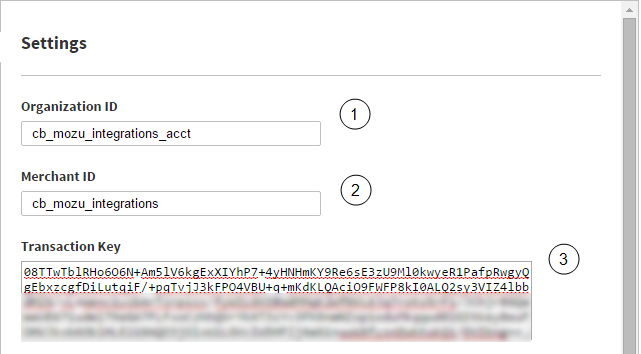
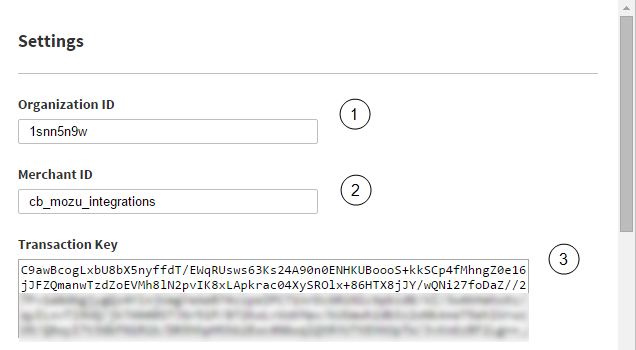
Updating Organization ID

diff --git a/DecisionManager/Mozu-DecisionManager-App.htm b/DecisionManager/Mozu-DecisionManager-App.htm
@@ -232,7 +232,7 @@
 							<table class="table table-hover" style="max-width:75%; font-size:90%;">
 							<tr>
 								<td><strong>1</strong></td>
-								<td><strong>Organization ID</strong>&#8212;Your Decision Manager <strong>Account ID</strong>.</td>
+								<td><strong>Organization ID</strong>&#8212;Specifies whether to connect to the CyberSource Test Business Center or the Live Business Center. The Test Business Center simulates transactions, and is ideal for testing your app configuration. The Live Business Center processes real transactions. For Test, use: <code>1snn5n9w</code> For Live, use: <code>k8vif92e</code></td>
 							</tr>
 							<tr>
 								<td><strong>2</strong></td>
@@ -255,15 +255,19 @@
 							</tr>
 							<tr>
 								<td><strong>5</strong></td>
-								<td><strong>Cancel Order When Rejected in DM</strong>&#8212;(Optional) If enabled, specifies to automatically cancel orders in Mozu that are rejected by Decision Manager. If not enabled, orders rejected by Decision Manager are set to Pending Review in Mozu.<span class="panel-note"><strong>Note:</strong> Cancelled orders in Mozu cannot be reverted to a non-cancelled state.</span></td>
+								<td><strong>Cancel Order When Rejected in DM</strong>&#8212;(Optional) Specifies to automatically cancel orders in Mozu that are rejected by Decision Manager. If not enabled, orders rejected by Decision Manager are set to Pending Review in Mozu.<span class="panel-note"><strong>Note:</strong> Cancelled orders in Mozu cannot be reverted to a non-cancelled state.</span></td>
 							</tr>
 							<tr>
-								<td><span id="config6"><strong>6</strong></span></td>
+								<td><strong>6</strong></td>
+								<td><strong>Export Order Item Price as 0.00</strong>&#8212;(Optional) Specifies to export orders to Decision Manager with the price for individual line items set to 0.00. The <strong>Order Total</strong> still shows the full price of the order.</td>
+							</tr>
+							<tr>
+								<td><span id="config6"><strong>7</strong></span></td>
 								<td><strong>Select Payment Type</strong>&#8212;Specifies the payment types to check for fraud in Decision Manager. Mozu sends ONLY the payment types you select to Decision Manager. If you select multiple payment types, Mozu sends only the <em>largest</em> selected payment type applied to a given order to Decision Manager for screening.
 									<span class="panel-note"><strong>Note:</strong> The <strong>Paypal Express</strong> payment type is only supported for the legacy version of Mozu PayPal, implemented through Mozu Core 8 and earlier. If you are implementing PayPal support through the PayPal Express Certified Mozu Application, Decision Manager does not check PayPal payments for potential fraud. CyberSource's current tooling requires a billing address with every order. PayPal Express obscures billing information for security reasons, so Mozu cannot provide it to CyberSource.</span></td>
 							</tr>
 							<tr>
-								<td><strong>7</strong></td>
+								<td><strong>8</strong></td>
 								<td><strong>Environment</strong>&#8212;Specifies the Decision Manager environment to use for fraud checking. If you select <strong>Test</strong>, the application sends order information to Decision Manager's test site, where you can evaluate fraud detection rules in a sandbox setting. When you are satisfied with the rules you set in Decision Manager, choose <strong>Production</strong> to enable live fraud detection on your site.</td>
 							</tr>
 						</table>
@@ -284,29 +288,54 @@
 							</tr>
 						</table>
 								
-								  <h3 id="rules">(Optional) Map Mozu Fields to Custom Fraud Detection Rules</h3>
-							<p>If you want to add to the rules that Decision Manager uses to screen an order for fraud risk, use the Decision Manager website to modify the existing rules or create new custom rules. To help you build custom rules, you can map Mozu fields, such as email address and payment types, to available merchant-defined data fields in Decision Manager. Afterwards, you can associate the MDD fields with custom fields in Decision Manager and use the custom fields in your fraud detection rules. To map these fields:</p>
+								  <h2 id="rules">(Optional) Create Custom Rules</h3>
+							<p>If you want to add to the rules that Decision Manager uses to screen an order for fraud risk, you can use the CyberSource Business Center to modify the existing rules or create new custom rules. To help you build custom rules, you can map Mozu fields, such as email address and payment types, to available merchant-defined data (MDD) fields in Decision Manager. Afterwards, you can associate the MDD fields with custom fields in Decision Manager and use the custom fields in your fraud detection rules.</p>
+							<h3 id="mappings">Create Custom Mappings from Mozu</h3>
 							<ol>
-								<li>Log in to Mozu Admin.</li>
-                                <li>On the Mozu Admin top bar, select <strong>Settings</strong> > <strong>Applications</strong>.</li>
-                                <li>Click <strong>CyberSource Decision Manager</strong>.</li>
-                                <li>Click the <strong>Configuration</strong> link to open configuration settings.</li>
-                                <li>Open the <strong>Custom Mapping</strong> tab.</li>
-                                <li>Select the <strong>Merchant ID</strong> that corresponds to the CyberSource account you want to set up the mappings for.</li>
-                                <li>Click <strong>Add Custom Mapping</strong>.<br><img src="mapping.png" class="img-mozu"><br>
+								<li>Open the Decision Manager app configuration settings dialog.</li>
+                                <li>Go to the <strong>Custom Mapping</strong> tab. <span class="panel-note"><strong>Note:</strong> This tab only appears after you configure and save your account information on the <strong>Settings</strong> tab.</span></li>
+                                <li>Select the <strong>Merchant ID</strong> for the CyberSource account you are mapping.</li>
+                                <li>Click <strong>Add Custom Mapping</strong> and fill in the following fields:<br><img src="dm-mapping.png" class="img-mozu"></li>
+                            </ol>    	
+                            <table class="table table-hover" style="max-width:75%; font-size:90%;">
+							<tr>
+								<td><strong>1</strong></td>
+								<td><strong>Merchant ID</strong>&#8212;The Decision Manager <strong>Merchant ID</strong> you selected on the previous page.</td>
+							</tr>
+							<tr>
+								<td><strong>2</strong></td>
+								<td><strong>Domain</strong>&#8212;The type of Mozu data you are mapping. The value you choose determines the options that appear in the <strong>Mozu Data</strong> menu.</td>
+							</tr>
+							<tr>
+								<td><strong>3</strong></td>
+								<td><strong>Mozu Data</strong>&#8212;The specific order or customer data field from Mozu. Once a field is mapped, it no longer appears in the list.</td>
+							</tr>
+							<tr>
+								<td><strong>4</strong></td>
+								<td><strong>CyberSource Data</strong>&#8212;The Decision Manager merchant-defined data field to which you are mapping the <strong>Mozu Data</strong>. Only available fields appear in the list.</td>
+							</tr>
+							<tr>
+								<td><strong>5</strong></td>
+								<td><strong>Include in Offer Details</strong>&#8212;Specifies whether to include the custom mapping as a column in the Decision Manager <strong>Offer Details</strong> table.</td>
+							</tr>
+							<tr>
+								<td><strong>6</strong></td>
+								<td><strong>Offer Detail Value Column</strong>&#8212;Specifies which column in the Decision Manager <strong>Offer Details</strong> table displays the mapped data. If you select <strong>Price</strong>, the mapped data must be a decimal. <strong>SKU</strong> can display any data type.</td>
+							</tr>
+						</table>
+
+                                	<h3 id="dmfields">Create Custom Fields in Decision Manager</h3>
+                                	<p>After you create your mappings in Mozu, you must log in to Decision Manager account and associate a custom field with a mapped merchant-defined data field. Creating this association is necessary because fraud detection rules don't access merchant-defined data fields directly.</p> 
+                                	<p>For example, if you create a mapping in Mozu that assigns a customer's email address to Merchant-Defined Data 7, complete the following steps to create the custom field in Decision Manager:</p> 
                                 	<ol>
-                                		<li>Using the <strong>Domain</strong> drop-down menu, select the type of Mozu data you want to map to Decision Manager.</li>
-                                		<li>Select the <strong>Mozu Data</strong> that you want to map to Decision Manager. If the Mozu data is already mapped, Mozu does not display it in the drop-down.</li>
-                                		<li>Select which merchant-defined data field you want to map the data to. If the MDD field is already in use, Mozu does not display it in the drop-down.</li>
-                                		<li>Click <strong>Save</strong>.</li>
+                                		<li>Log in to the <a href="https://ebc.cybersource.com/ebc/login/Login.do" target="blank">CyberSource  Business Center</a>.</li>
+                                		<li>Go to <strong>Decision Manager</strong> > <strong>Configuration</strong> > <strong>Custom Fields</strong>.</li>
+                                		<li>Click <strong>Add Custom Field</strong>.</li>
+                                		<li>Select <strong>merchant_defined_data7</strong> as the <strong>Order Element</strong> and give the field a logical name, such as <strong>Email</strong>.</li>
+                                		<li>Click <strong>Save</strong> to create the field.</li>
                                 	</ol>
-                                	</li>
-                                	<li>After you create a mapping, log in to your Decision Manager account and associate a custom field with a mapped MDD field. You create this association in order to use the custom field within a rule (because rules don't access MDD fields directly). For example, in Mozu you may have mapped a shopper's email address to MDD 7. If this is the case, you should map a custom field in Decision Manager to MDD 7 and name it "Email". In this way, the data you map from Mozu is accessible for use in Decision Manager rules via the custom field.</li>
-                                	<li>After you complete the previous step, create custom rules in Decision Manager that utilize the custom fields you set up, thereby taking advantage of the data Mozu maps to MDD fields with each screened order.</li>
-							</ol>
 
-
-							 <p>For more information on creating custom rules and fields in Decision Manager, refer to the <em>Decision Manager User Guide</em> available through the CyberSource Business Center.</p>
+							 <p>You can now go to <strong>Configuration</strong> > <strong>Custom Rules</strong> to create a new rule. In the <strong>Rule Conditions</strong>, your custom fields appear in the <strong>Order Element</strong> drop-down. For more information on creating custom rules and fields in Decision Manager, refer to the <em>Decision Manager User Guide</em> available through the CyberSource Business Center.</p>
 							
                         </section>
 

diff --git a/Preview/DecisionManager/Mozu-DecisionManager-App.htm b/Preview/DecisionManager/Mozu-DecisionManager-App.htm
@@ -232,7 +232,7 @@
 							<table class="table table-hover" style="max-width:75%; font-size:90%;">
 							<tr>
 								<td><strong>1</strong></td>
-								<td><strong>Organization ID</strong>&#8212;Your Decision Manager <strong>Account ID</strong>.</td>
+								<td><strong>Organization ID</strong>&#8212;Specifies whether to connect to the CyberSource Test Business Center or the Live Business Center. The Test Business Center simulates transactions, and is ideal for testing your app configuration. The Live Business Center processes real transactions. For Test, use: <code>1snn5n9w</code> For Live, use: <code>k8vif92e</code></td>
 							</tr>
 							<tr>
 								<td><strong>2</strong></td>
